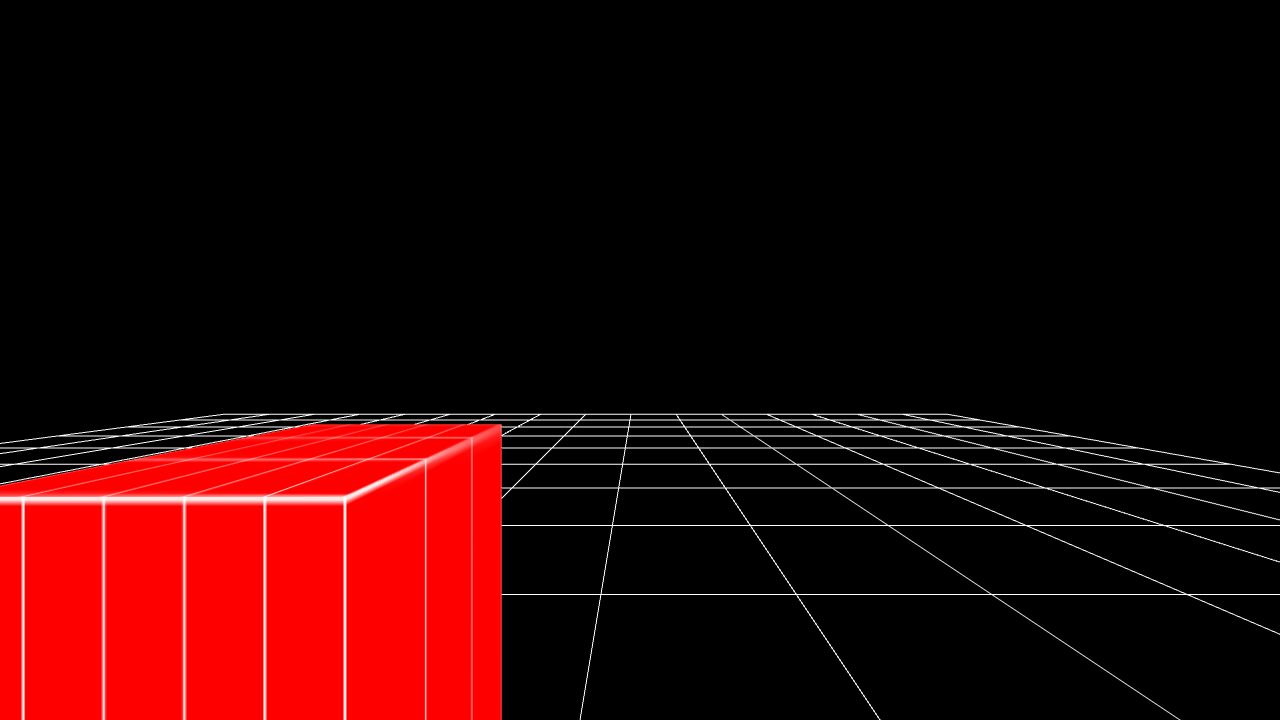
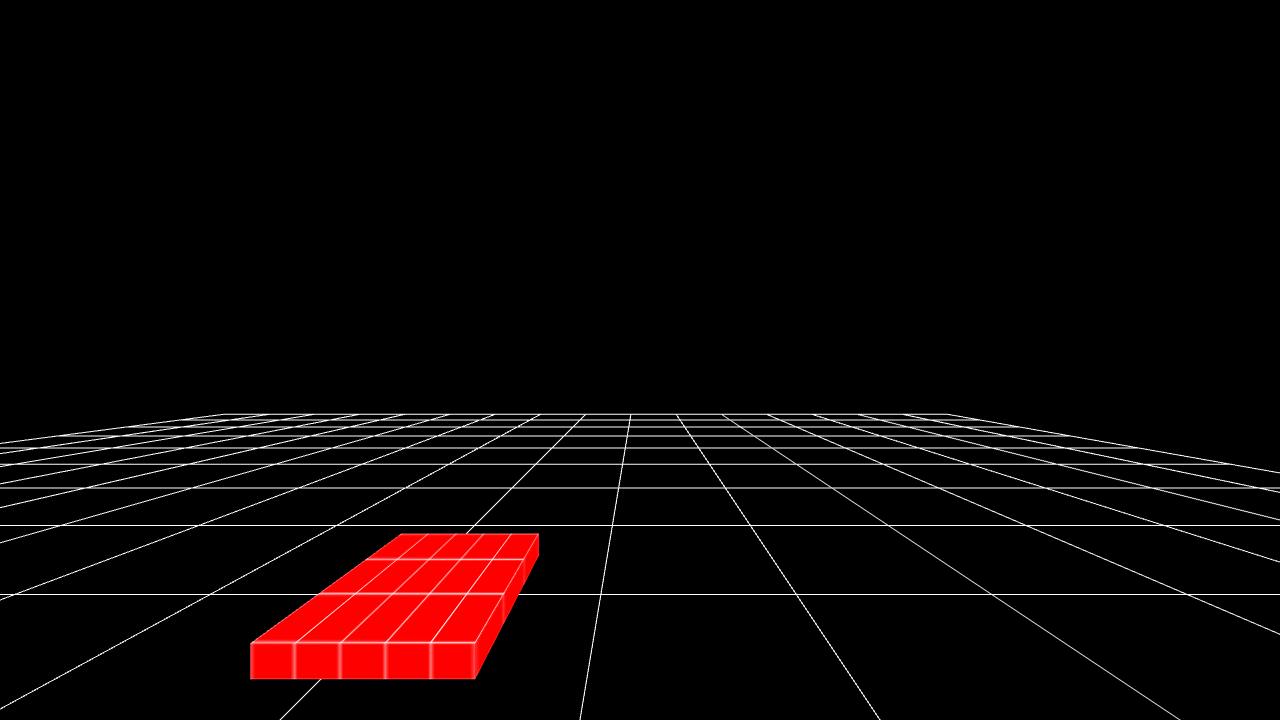
and commander

Changed region(s): [[0.0, 0.5806, 0.4375, 1.0]]

diff --git a/node-render/index.js b/node-render/index.js
@@ -1,7 +1,30 @@
 const playwright = require('playwright');
 const argv = require('yargs').argv;
+const commander = require('commander'); // include commander in git clone of commander repo
+const { option } = require('yargs');
+const program = new commander.Command();
 
 
+program
+.option('-f, --json-file-link <dir>' , 'json file')
+.option('-s , --json-data-string <JSON>', 'json data-string')
+.option('-o , --img-save-dir <dir>', 'image save to directory')
+.option('-w , --img-width <size>', 'image width')
+.option('-h , --img-height <size>', 'image height')
+.option('-i , --save-to-img', 'save to .jpg')
+.option('-p , --save-to-png', 'save to .png')
+.parse(process.argv);
+
+
+const { jsonFileLink, 
+        jsonDataString, 
+        imgSaveDir, 
+        imgWidth,
+        imgHeight,
+        saveToImg,
+        saveToPng
+      } = program
+console.log(saveToPng);
 
 const htmlContent = `
   <!doctype html>
@@ -126,7 +149,7 @@ const htmlContent = `
                   size: {
                     x: 750,
                     y: 990,
-                    z: ${argv.size},
+                    z: 120,
                   },
                   position: {
                     x: 200,
